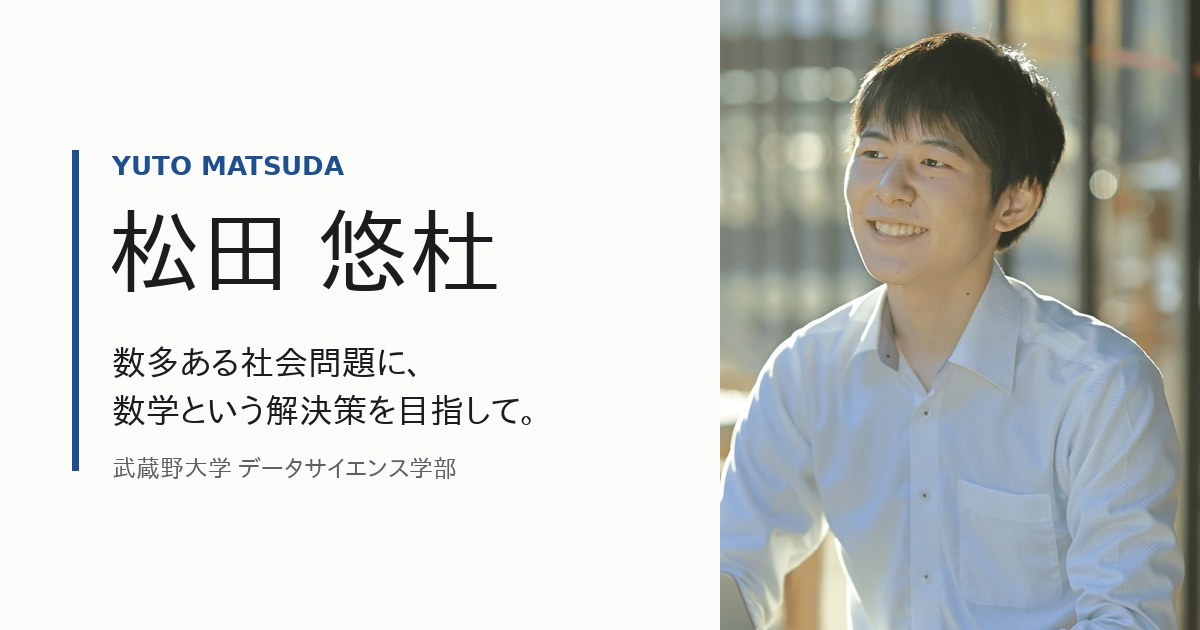
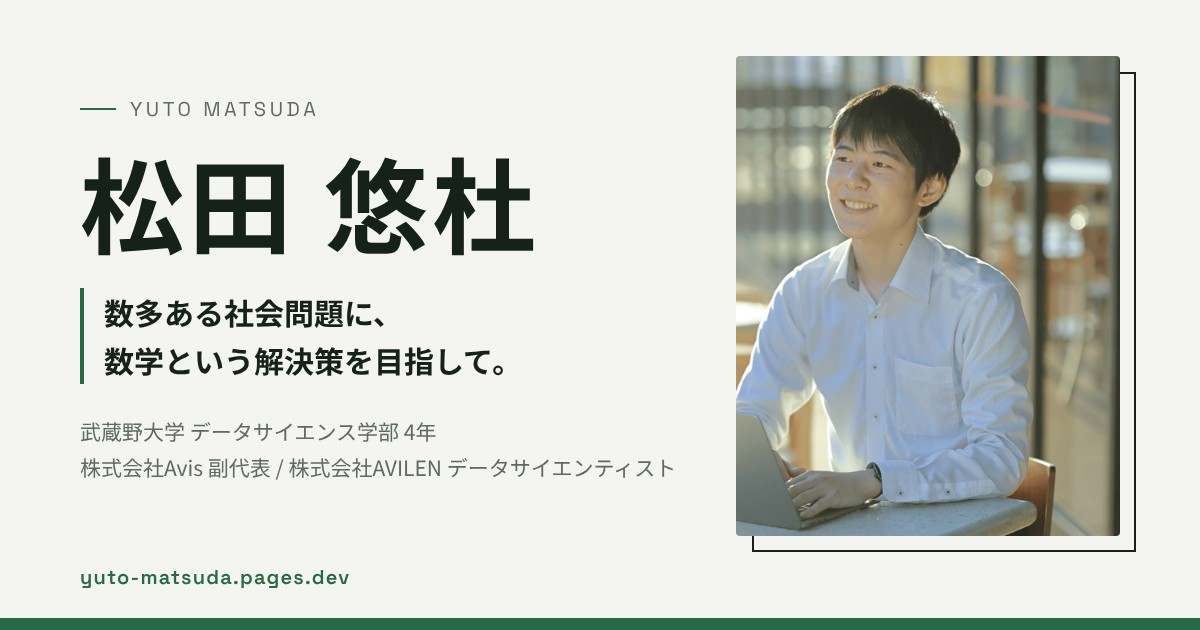
共有画像を新デザインで作り直し、ハッカソンの詳細ページと空欄の説明文を追加
- public/og.jpg を緑のデザイン・プロフィール写真入りに更新
- ハッカソンに詳細ページ(貸し倒れ予測、特徴量エンジニアリング、アンサンブル学習)を追加
- 詳細ページの写真に高さの上限を付け、縦長写真が大きくなりすぎないように
- スキルのプログラミング・ツール・教育に説明文を追加
- 個人塾の期間を高校在学中(2019.04 – 2022.03)に確定

Claude-Session: https://claude.ai/code/session_01Fd1NiiRqhfigSMVLC48Vj3

diff --git a/src/content/projects/aiful-data-hackathon.md b/src/content/projects/aiful-data-hackathon.md
@@ -7,7 +7,23 @@ cover: ../images/aiful-hackathon.jpg
 coverAlt: アイフルハッカソンで優秀賞のボードを持つチームの集合写真(本人以外の顔はモザイク処理)
 result: 優秀賞(2位)
 venue: アイフル株式会社 主催
-summary: 利益最大化のための機械学習モデルを構築するハッカソンで、優秀賞(2位)を獲得しました。
+summary: 企業から提供された実データを用いて貸し倒れを予測する機械学習モデルを構築し、優秀賞(2位)を獲得しました。
 tech:
   - 機械学習
+  - 特徴量エンジニアリング
+  - アンサンブル学習
 ---
+
+## 概要
+
+アイフル株式会社が主催するデータハッカソン(2024年3月)に、チームで参加しました。
+
+## 取り組んだ内容
+
+企業から提供された実際のデータをもとに、貸し倒れを予測する機械学習モデルを作成しました。特に特徴量エンジニアリングに力を入れ、複数のモデルを組み合わせるアンサンブル学習で予測の精度を高めました。
+
+※ 提供データの詳細は公開できないため、概要のみ記載しています。
+
+## 結果
+
+優秀賞(2位)を受賞しました。

diff --git a/docs/content-inventory.md b/docs/content-inventory.md
@@ -44,7 +44,7 @@
 | 2025.04 – 現在 | 株式会社Avis 共同起業・副代表/業務管理部 部長 | 2025/4〜、業務内容 | 役職名、業務内容、1年間 | 統合 |
 | 2024.08 – 現在 | 株式会社AVILEN | 「インターン」2024/8〜 | 「データサイエンティスト(業務委託)」、業務内容、2年間 | 統合(本人回答によりWの肩書きを採用) |
 | 2023.04 – 現在 | 株式会社リソー教育 塾講師 | 2023/4〜、現在も勤務 | 業務内容、3年間 | 統合 |
-| 2019.04 から3年間 | 個人経営塾 塾講師 | 2019/4、3年 | 業務内容、3年間 | 統合・**要確認**(終了年月) |
+| 2019.04 – 2022.03 | 個人経営塾 塾講師 | 2019/4、3年 | 業務内容、3年間 | 統合。本人回答「高校在学中ずっと」により高校卒業(2022.03)までとした |
 
 ## 5. 研究・活動実績
 
@@ -87,7 +87,7 @@
 ## 8. 確認が必要な事項(まとめ)
 
 - 解決済み(2026-10-16): メールアドレス、GitHub、未来創造PJの賞名、AVILENの肩書き、論文・コンペの概要
-- 残り: 個人塾の勤務終了年月(現在は「2019.04から3年間」と表示)、公開URL
+- 残り: 公開URL
 
 ## 9. 公開URLの選び方
 
